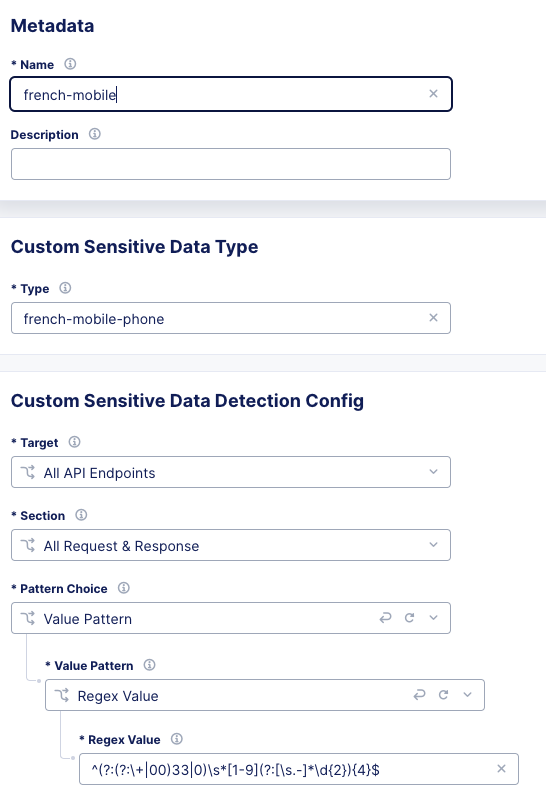
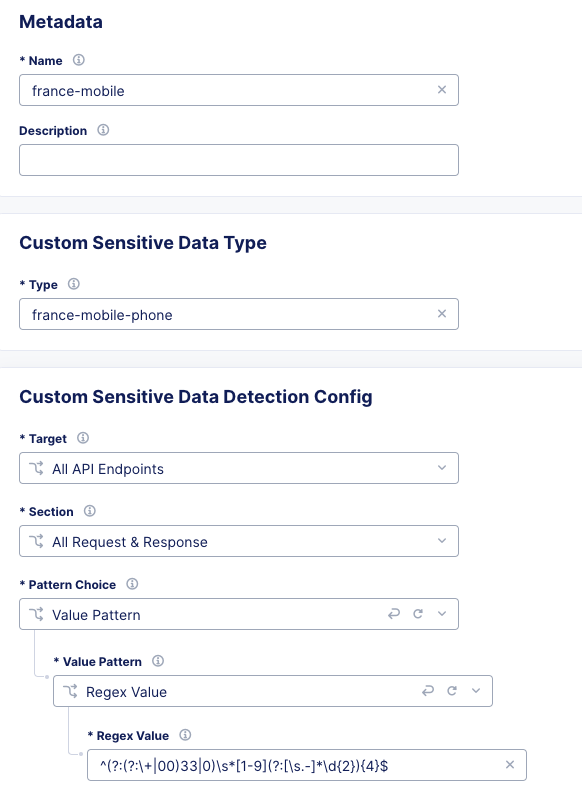
class4

diff --git a/docs/class4/module2/lab2/lab2.rst b/docs/class4/module2/lab2/lab2.rst
@@ -22,7 +22,7 @@ Enable Endpoint Discovery
 Enable PII Discovery
 --------------------
 
-OWASP Top10 API requires to detect and discover sensitive datas in Request and Response. To do so, F5 Distributed Cloud has a list of known PII (Personal Identifiable Information), such as:
+OWASP Top10 API requires to detect and discover sensitive datas in Requests and Responses. F5 Distributed Cloud supports this and provides a predefined list of known PII (Personal Identifiable Information), such as:
 
 * email
 * credit card number
@@ -31,8 +31,8 @@ OWASP Top10 API requires to detect and discover sensitive datas in Request and R
 
 But you want to detect your own PII, such as:
 
-* French Social Security Number
-* French Mobile Phone Number
+* Country Social Security Number
+* Mobile Phone Number
 * Etc ...
 
 Create custom PII
@@ -41,9 +41,9 @@ Create custom PII
 * In Sensitive Data Detection, click on ``configure``.
 * Add two new ``Defined Custom Sensitive Data Types``, enable detection for ``All Endpoint, Request and Response, Value Pattern``
 
-  * French SSN, use this regex ``[12][0-9]{2}(0[1-9]|1[0-2])(2[AB]|[0-9]{2})[0-9]{3}[0-9]{3}([0-9]{2})``
+  * For France/French SSN, use this regex ``[12][0-9]{2}(0[1-9]|1[0-2])(2[AB]|[0-9]{2})[0-9]{3}[0-9]{3}([0-9]{2})``
   
-  * French Mobile Phone, use this regex ``^(?:(?:\+|00)33|0)\s*[1-9](?:[\s.-]*\d{2}){4}$``
+  * For France/French Mobile Phone, use this regex ``^(?:(?:\+|00)33|0)\s*[1-9](?:[\s.-]*\d{2}){4}$``
 
 .. image:: ../pictures/pii.png
    :align: left
@@ -53,14 +53,12 @@ Create custom PII
 
 .. image:: ../pictures/pii2.png
    :align: left
-   :scale: 40%
-
+   
 |
 
 .. image:: ../pictures/pii-both.png
    :align: left
-   :scale: 40%
-
+   
 |
 
 * SAVE your Load Balancer changes
